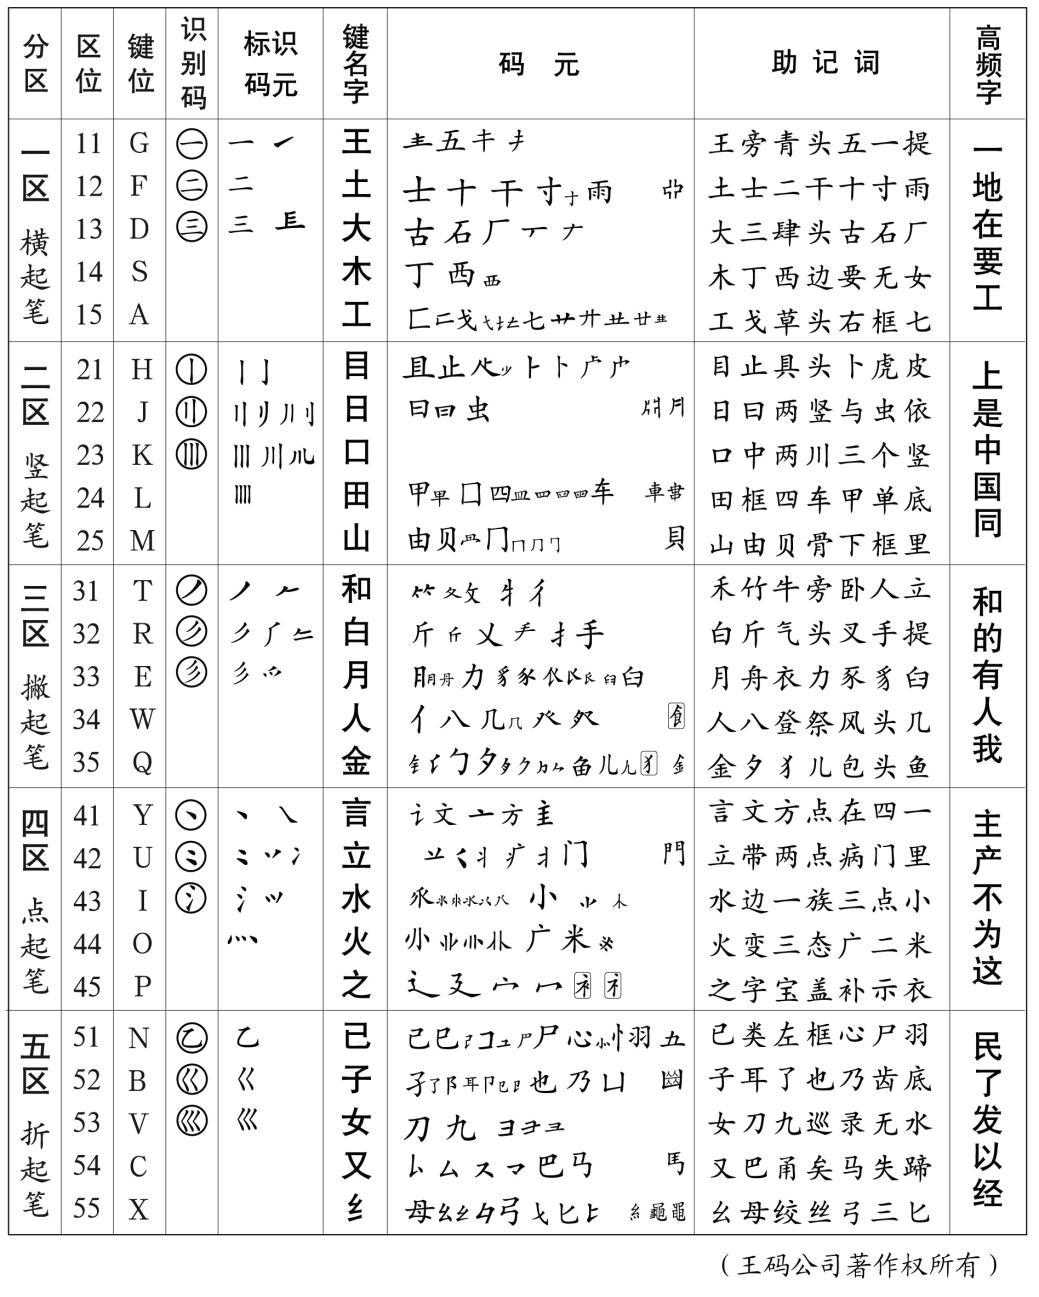
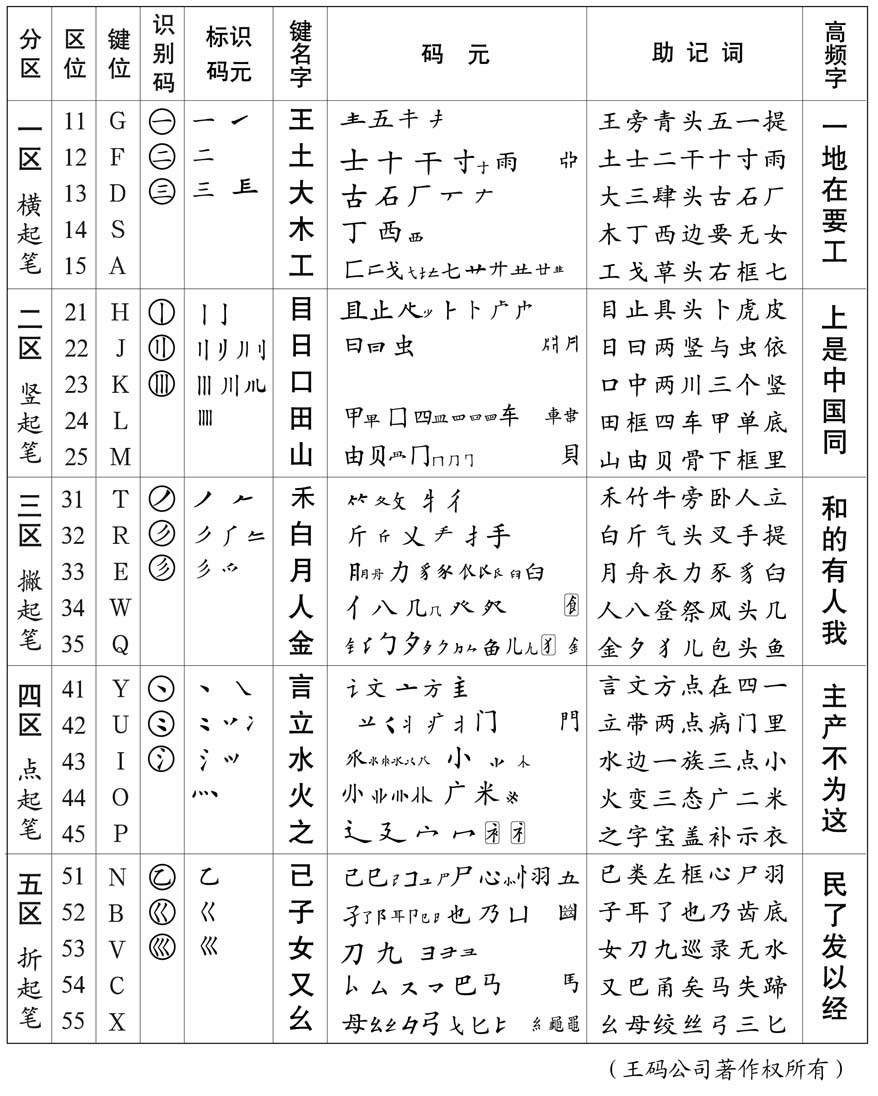
update readme

diff --git a/ReadMe.md b/ReadMe.md
@@ -47,9 +47,11 @@ CE5A4007936D580000AAF433282D9D183EF87ADC *wmwb2012a.exe v2.0.0.1
 
 ![dyt_settings01](https://github.com/CNMan/Unicode_CJK_XSJWBBM/raw/master/imgs/dyt_settings01.png)
 
+![dyt00](https://github.com/CNMan/Unicode_CJK_XSJWBBM/raw/master/imgs/dyt00.png) ![dyt01](https://github.com/CNMan/Unicode_CJK_XSJWBBM/raw/master/imgs/dyt01.png) ![dyt02](https://github.com/CNMan/Unicode_CJK_XSJWBBM/raw/master/imgs/dyt02.png)
+
 [新世纪版五笔字型字根键位图](http://www.wangma.com.cn/view.asp?id=201&f_id=22)
 
-![zgjwt_jf_1479x843](https://github.com/CNMan/Unicode_CJK_XSJWBBM/raw/master/imgs/zgjwt_jf_1479x843.jpg)
+![zgjwt_jf_871x468](https://github.com/CNMan/Unicode_CJK_XSJWBBM/raw/master/imgs/zgjwt_jf_871x468.jpg)
 
 [新世纪版五笔字型字根助记歌](http://www.wangma.com.cn/view.asp?id=200&f_id=22)
 
@@ -78,6 +80,12 @@ CE5A4007936D580000AAF433282D9D183EF87ADC *wmwb2012a.exe v2.0.0.1
 [Unicode 11.0.0 CodeCharts](https://www.unicode.org/Public/11.0.0/charts/CodeCharts.pdf)
 
 [Unihan Database Lookup](https://www.unicode.org/charts/unihan.html)
+
+[ISO/IEC 10646 5th edition](http://standards.iso.org/ittf/PubliclyAvailableStandards/c069119_ISO_IEC_10646_2017.zip)
+
+[IDS data for CJK Unified Ideographs](https://github.com/cjkvi/cjkvi-ids)
+
+[CJK Unified Ideographs Extension G (30000-31389)](https://unicode.org/roadmaps/tip/)
 
 [《通用规范汉字表》（国发〔2013〕23号）](http://www.gov.cn/gzdt/att/att/site1/20130819/tygfhzb.pdf)
 
